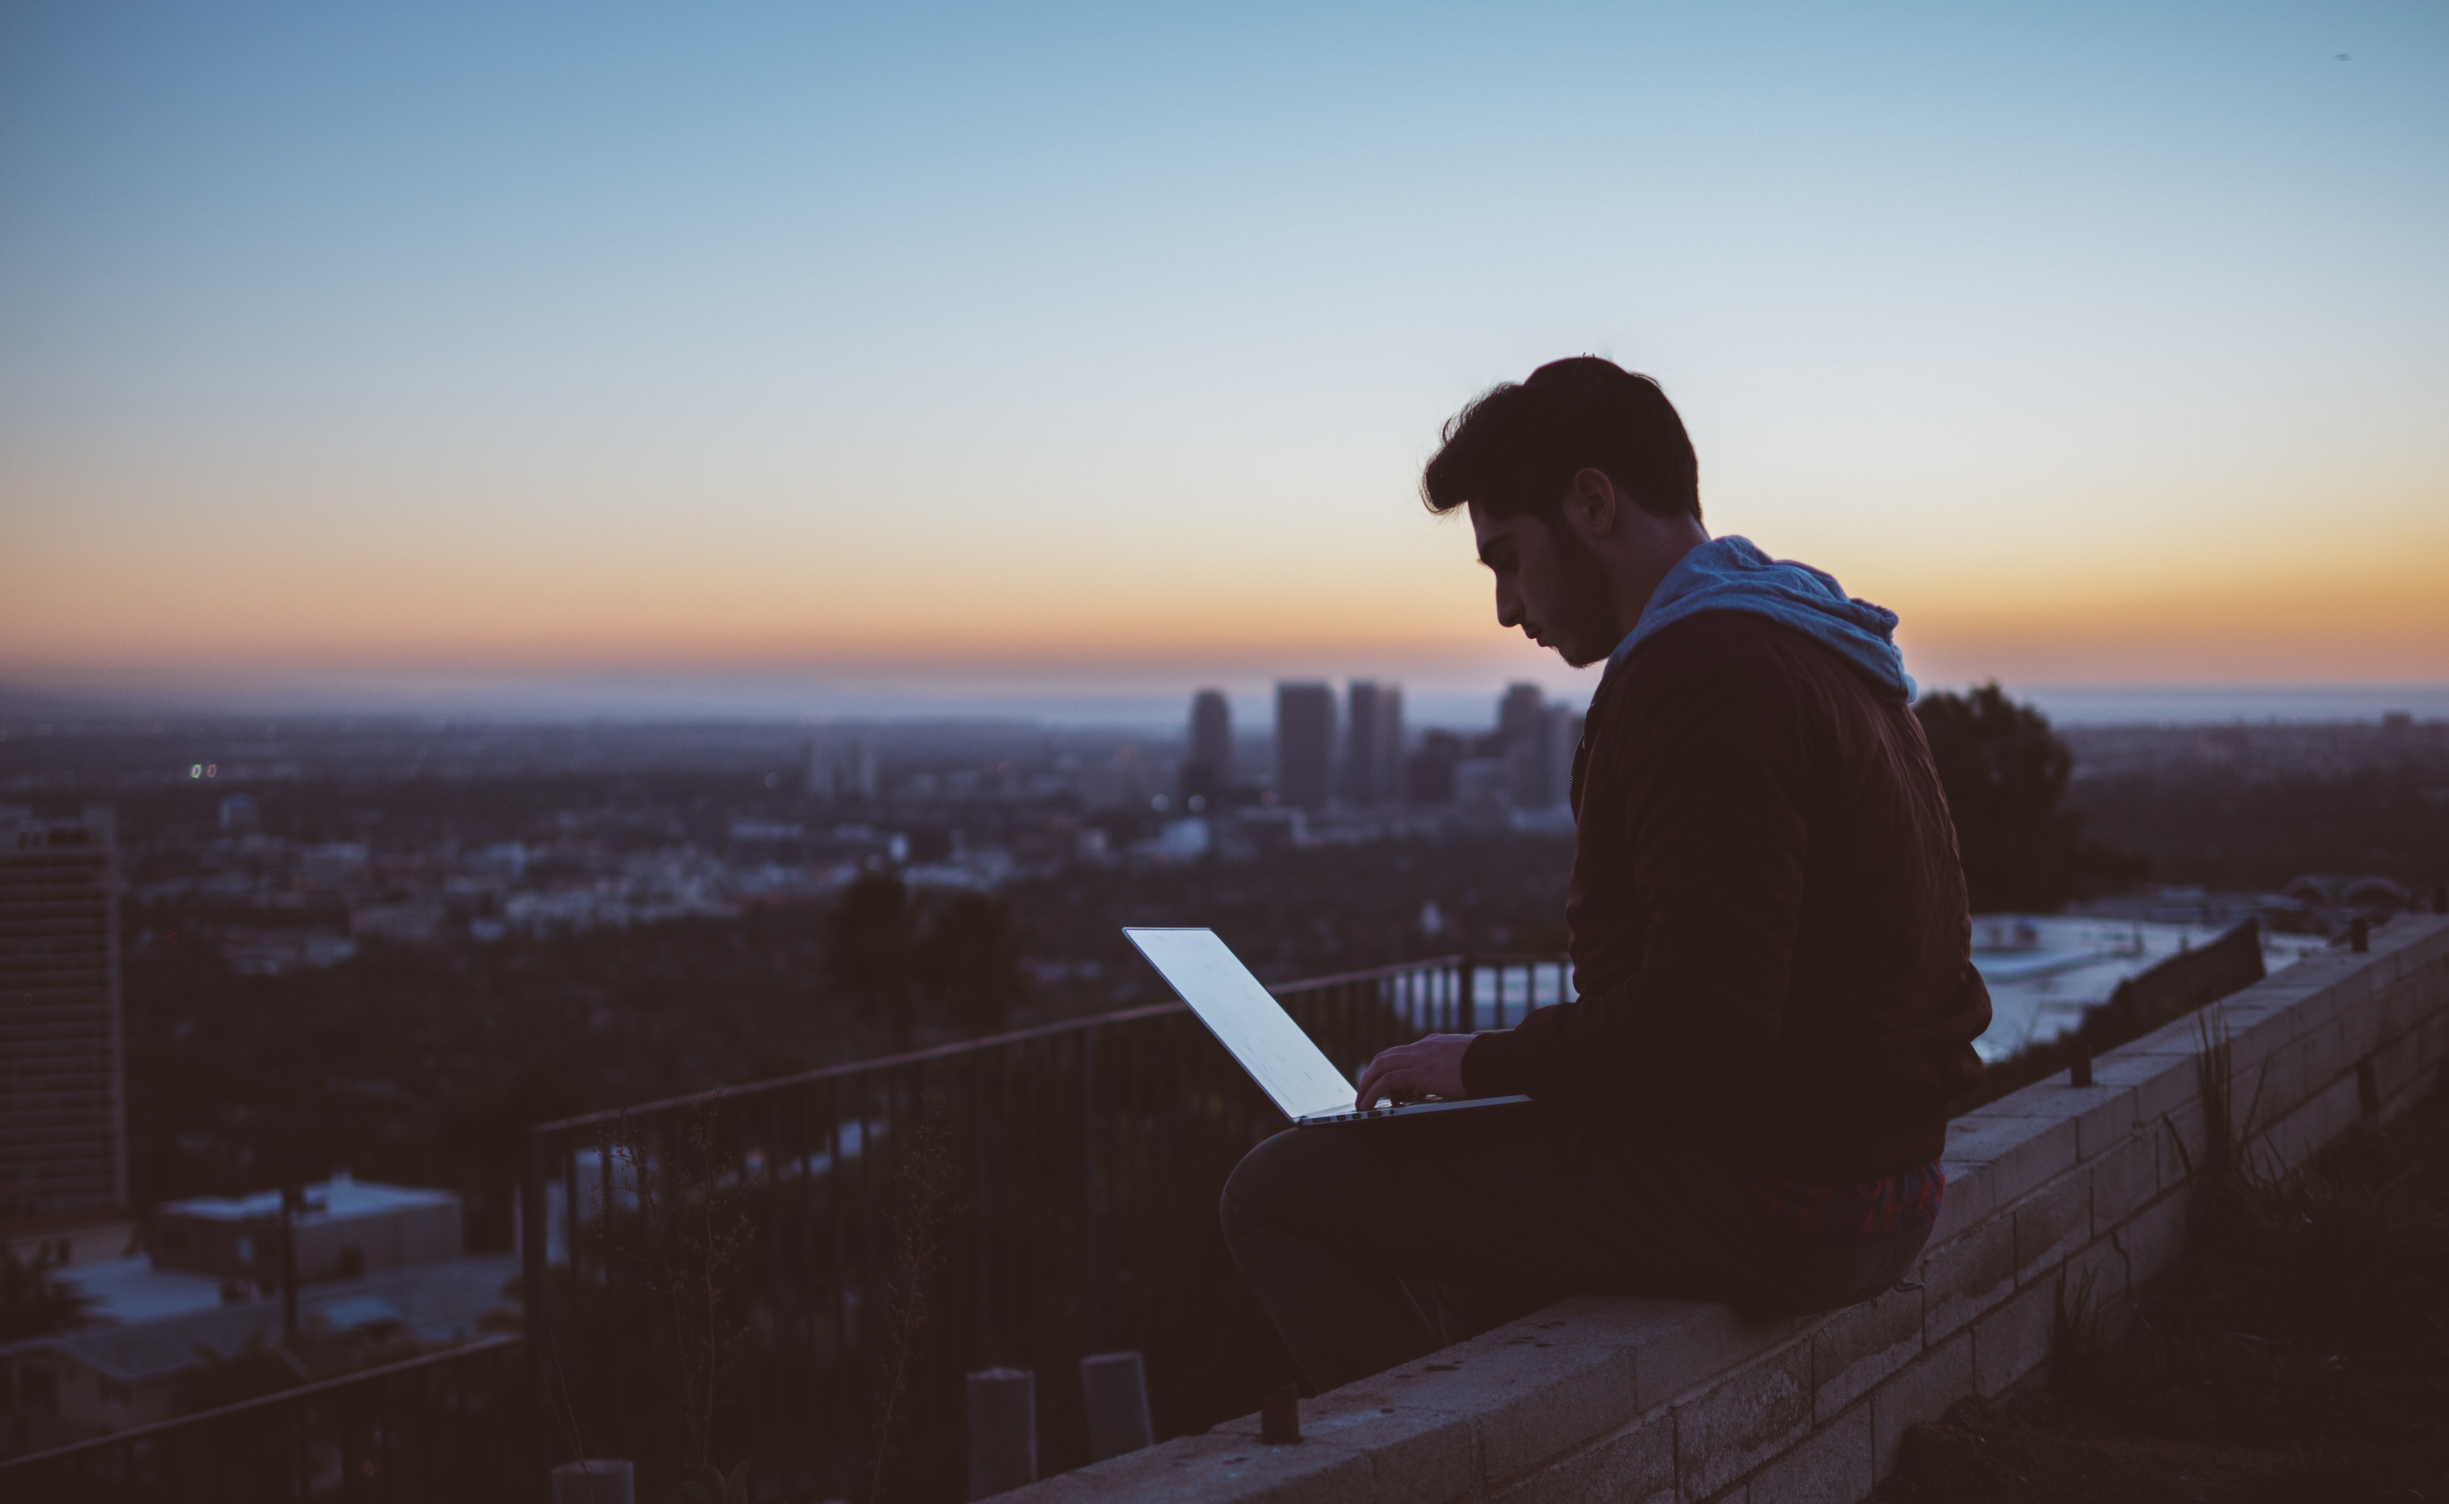
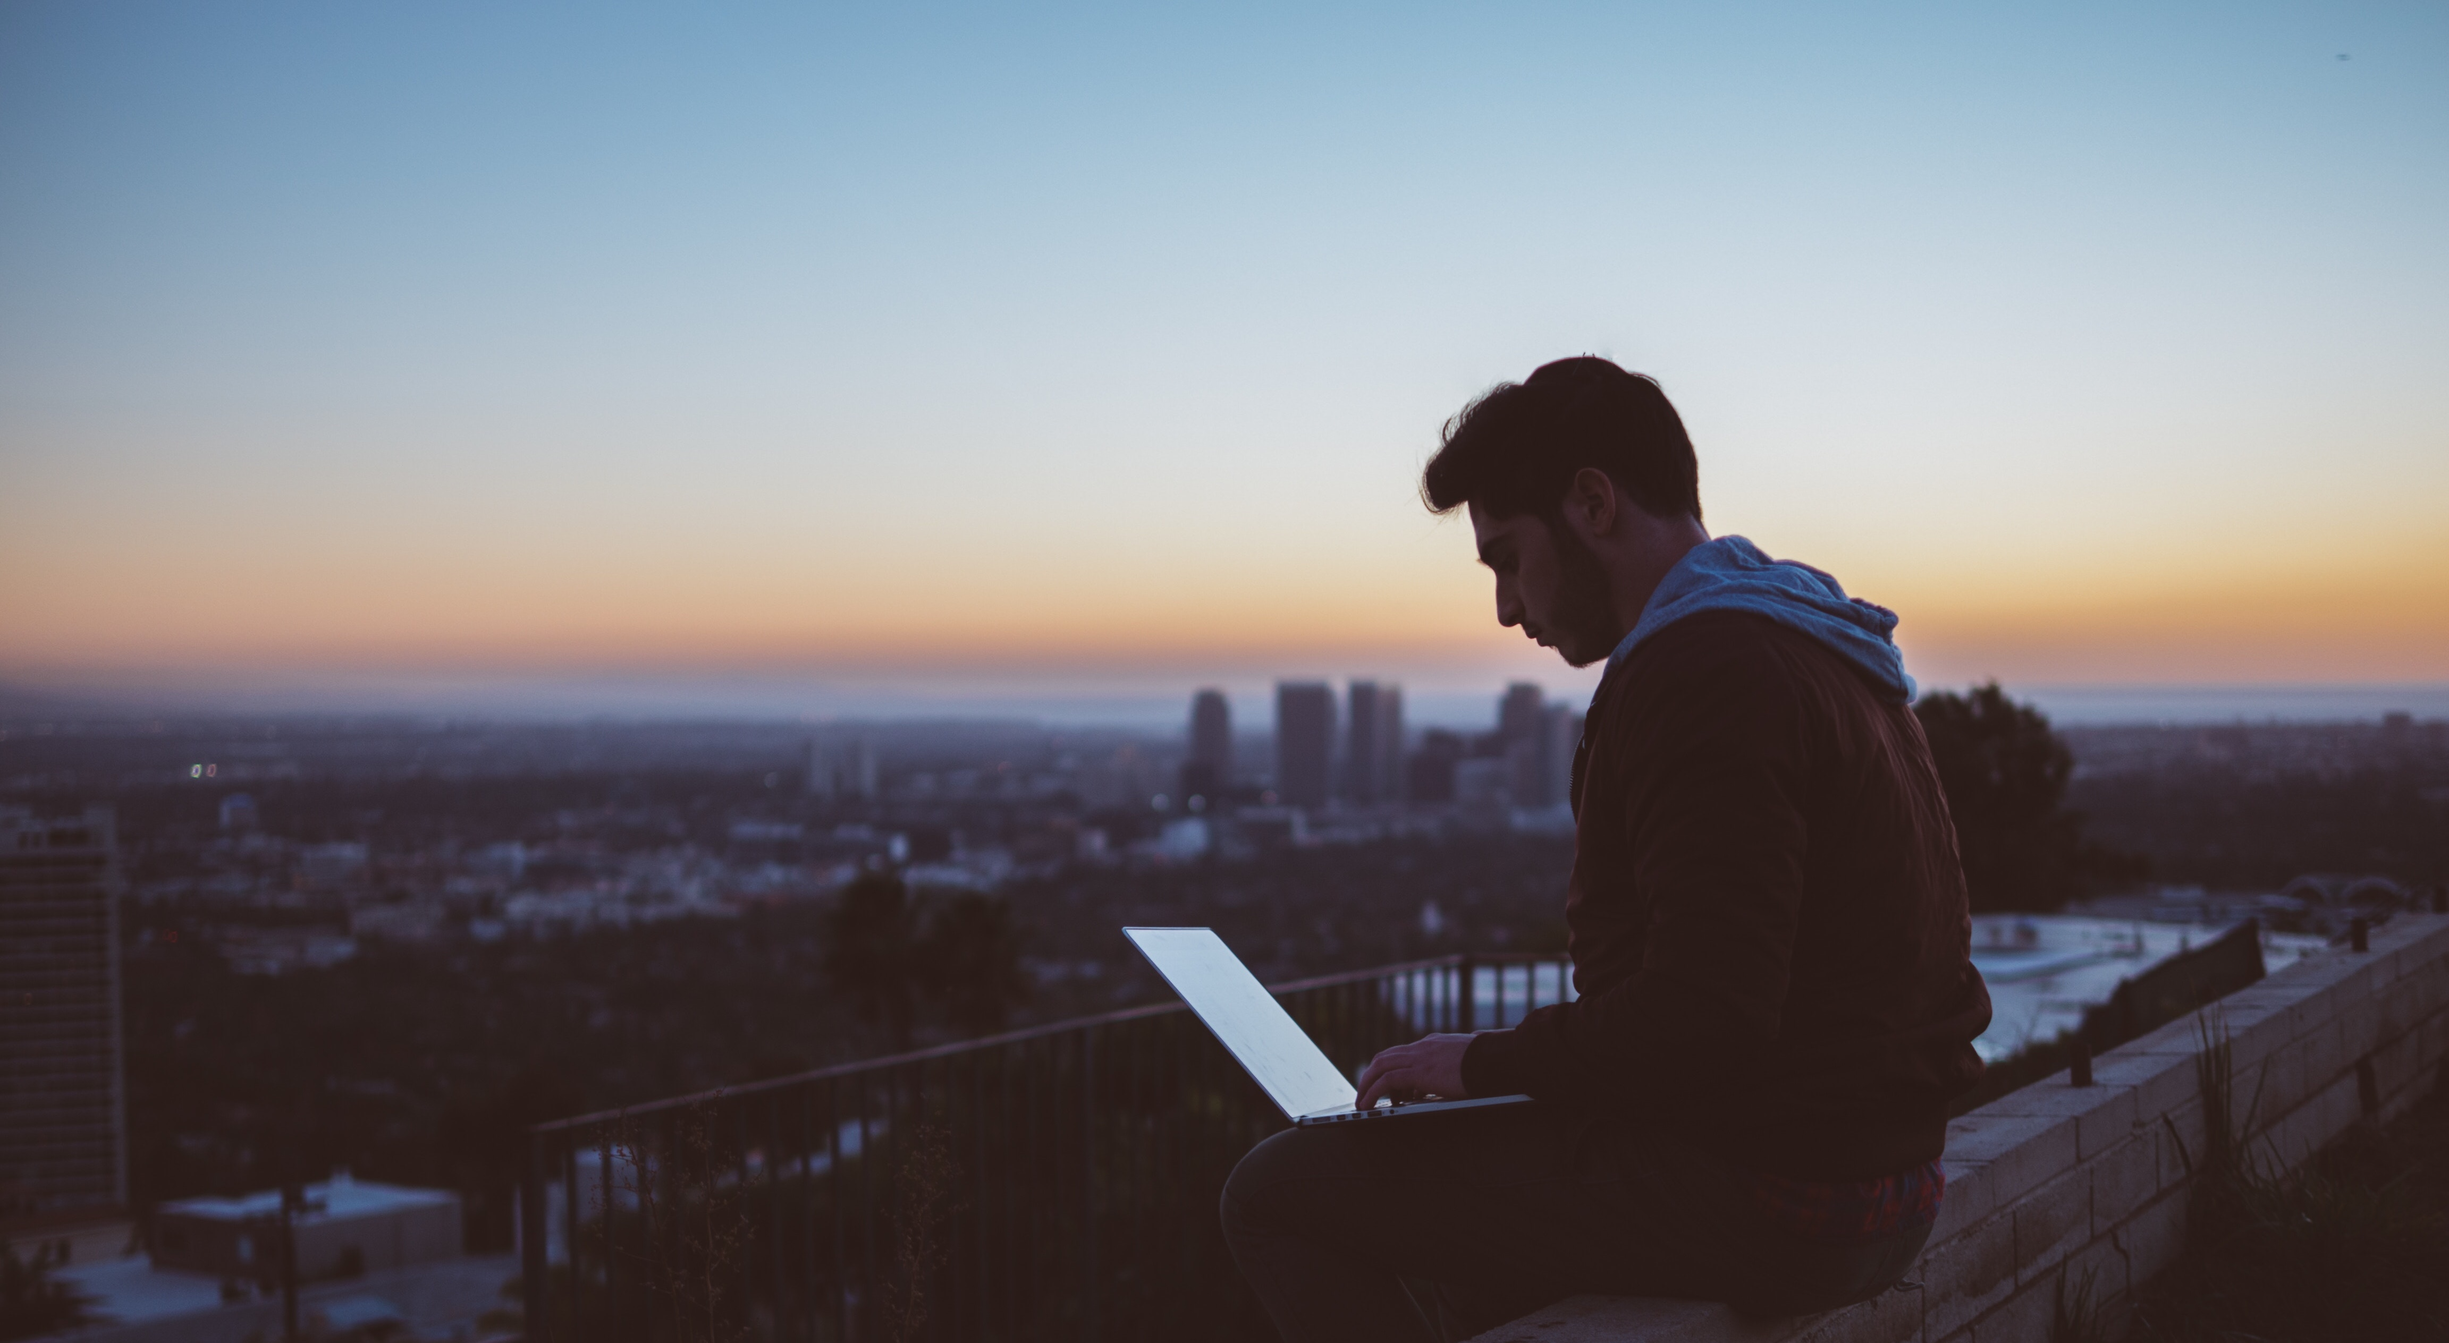
finish about me section

Changed region(s): [[0.0, 0.2188, 1.0, 1.0], [0.0, 0.75, 0.2812, 1.0], [0.4062, 0.9062, 0.4375, 0.9375]]

diff --git a/index.html b/index.html
@@ -12,7 +12,7 @@
   <body>
     <div class="container-fluid">
       <div id="banner">
-        <img src="img/IMG_2517.jpg" alt="Norway" style="width:100%;">
+        <img src="img/banner-img.jpg" alt="Norway" style="width:100%;">
         <div id="nav" class="top-left">
           <ul>
             <li><a href="#">Home</a> |</li>
@@ -29,7 +29,8 @@
         </div>
         <div class="centered">
           <div class="logo-container">
-            <div id="logo"><h4 id="thin">Professional Web Developer</h2>
+            <div id="logo">
+              <h4 id="thin">Professional Web Developer</h2>
               <hr>
               <p id="bold">I'M A PROFESSIONAL WEB DEVELOPER</p>
               <hr>
@@ -38,11 +39,31 @@
           </div>
         </div><!--end centered-->
       </div><!--end banner-->
+
+
       <div class="about-me">
-        <div class="rectangle">
-          <p>I am rectangle content</p>
+        <div class="am-container">
+          <div id="hello">
+            <hr>
+            <h2>HELLO</h2>
+            <hr>
+          </div>
+          <img id="self-port" src="img/self-portrait.jpg" alt="image of Josh holding an iPhone">
+          <div class="summary">
+            <h4>Josh (Sr.)</h4>
+            <h5>Hello, I'm Josh, a <span class="font-weight-bold">full-stack web developer</span> from Seattle,WA!</h5>
+            <p>I am currently learning how to program at Epicodus, a vocational school for aspiring programmers.
+            I've learned so much. I'm excited to continue persuing this career, setting my sail and just letting
+            the wind take me where it wants.</p>
+            <p>The primary reason I came to Epicodus and decided to become a full-stack web developer was simple.
+            I wanted to combine my createive abilities and my problem solving and technical skills.</p>
+          </div>
         </div>
       </div>
+
+
+
+
     </div><!--end container-->
   </body>
 </html>

diff --git a/css/styles.css b/css/styles.css
@@ -1,6 +1,20 @@
 /* styles elements */
 
+/*
+
+*{
+  border: .5px solid red;
+}
+
+*/
+
 hr{
+   border:1px solid white;
+   padding:0px;
+   margin-top:15px;
+}
+
+#logo hr{
    border:1.5px solid white;
    padding:0px;
    margin:0px;
@@ -42,22 +56,37 @@ hr{
   position: relative;
 }
 
-.rectangle{
+.am-container{
   width:80%;
-  height:225px;
-  text-align: center;
+  height:400px;
   color:white;
   position: relative;
-  border:1px solid white;
+  /*border:1px solid white;*/
   margin: 0px auto;
+  text-align: center;
 }
-
 
 .about-me{
   background-color:#34495e;
   width:100%;
-  height:750px;
+  height:550px;
+  padding:75px;
 }
+
+.summary{
+  width:70%;
+  height:50%;
+  /*border:1px solid white;*/
+  position:absolute;
+  top:145px;
+  left:320px;
+  text-align:left;
+}
+
+.summary p h5 h4{
+  font-weight:lighter;
+}
+
 
 /* styles ids */
 
@@ -85,13 +114,6 @@ hr{
   width:100%;
 }
 
-#bold{
-  font-weight: bold;
-  font-size:42.5px;
-  padding:0px;
-  margin:0px;
-}
-
 #thin{
   font-weight: lighter;
   margin-bottom:20px;
@@ -99,6 +121,13 @@ hr{
 
 #normal{
   margin-top:20px;
+}
+
+#bold{
+  font-weight: bold;
+  font-size:42.5px;
+  padding:0px;
+  margin:0px;
 }
 
 #banner{
@@ -109,4 +138,18 @@ hr{
 
 #banner img{
   width:100%;
+}
+
+#self-port{
+  max-height:66%;
+  border:5px solid gray;
+  position: absolute;
+  left:0px;
+  bottom:0px;
+}
+
+#hello{
+  max-width:33%;
+  max-height:50px;
+  margin: 0px auto;
 }
